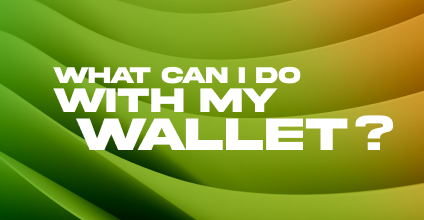
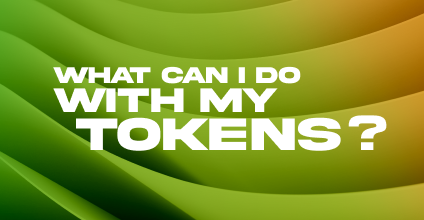
style(frontend): change titles and images of about modals (#1917)
# Motivation

Updating titles and images of about modals.

Changed region(s): [[0.184, 0.5182, 0.9505, 0.7091], [0.1533, 0.5455, 0.184, 0.5727]]

diff --git a/src/frontend/src/lib/components/hero/about/AboutWhatModal.svelte b/src/frontend/src/lib/components/hero/about/AboutWhatModal.svelte
@@ -3,7 +3,6 @@
 	import { Html, Modal } from '@dfinity/gix-components';
 	import { i18n } from '$lib/stores/i18n.store';
 	import { replaceOisyPlaceholders } from '$lib/utils/i18n.utils';
-	import IconIncognito from '$lib/components/icons/IconIncognito.svelte';
 	import IconCrypto from '$lib/components/icons/IconCrypto.svelte';
 	import IconWalletConnect from '$lib/components/icons/IconWalletConnect.svelte';
 	import CoverWhat from '$lib/assets/cover-features.png';
@@ -24,17 +23,11 @@
 		</p>
 
 		<p class="mt-6">
-			<IconIncognito />
-			<Html text={replaceOisyPlaceholders($i18n.about.what.text.go_incognito)} />
-		</p>
-
-		<p class="mt-6">
 			<IconWalletConnect />
 			<Html text={replaceOisyPlaceholders($i18n.about.what.text.use_eth_dapps)} />
 		</p>
 
-		<!-- TODO: Remove the opacity when it will be possible to use IC dapps with Oisy-->
-		<p class="my-6 opacity-50">
+		<p class="my-6">
 			<Html text={replaceOisyPlaceholders($i18n.about.what.text.use_ic_dapps)} />
 		</p>
 	</div>

diff --git a/src/frontend/src/lib/types/i18n.d.ts b/src/frontend/src/lib/types/i18n.d.ts
@@ -489,7 +489,6 @@ interface I18nAbout {
 			label: string;
 			title: string;
 			hold_crypto: string;
-			go_incognito: string;
 			use_eth_dapps: string;
 			use_ic_dapps: string;
 		};
